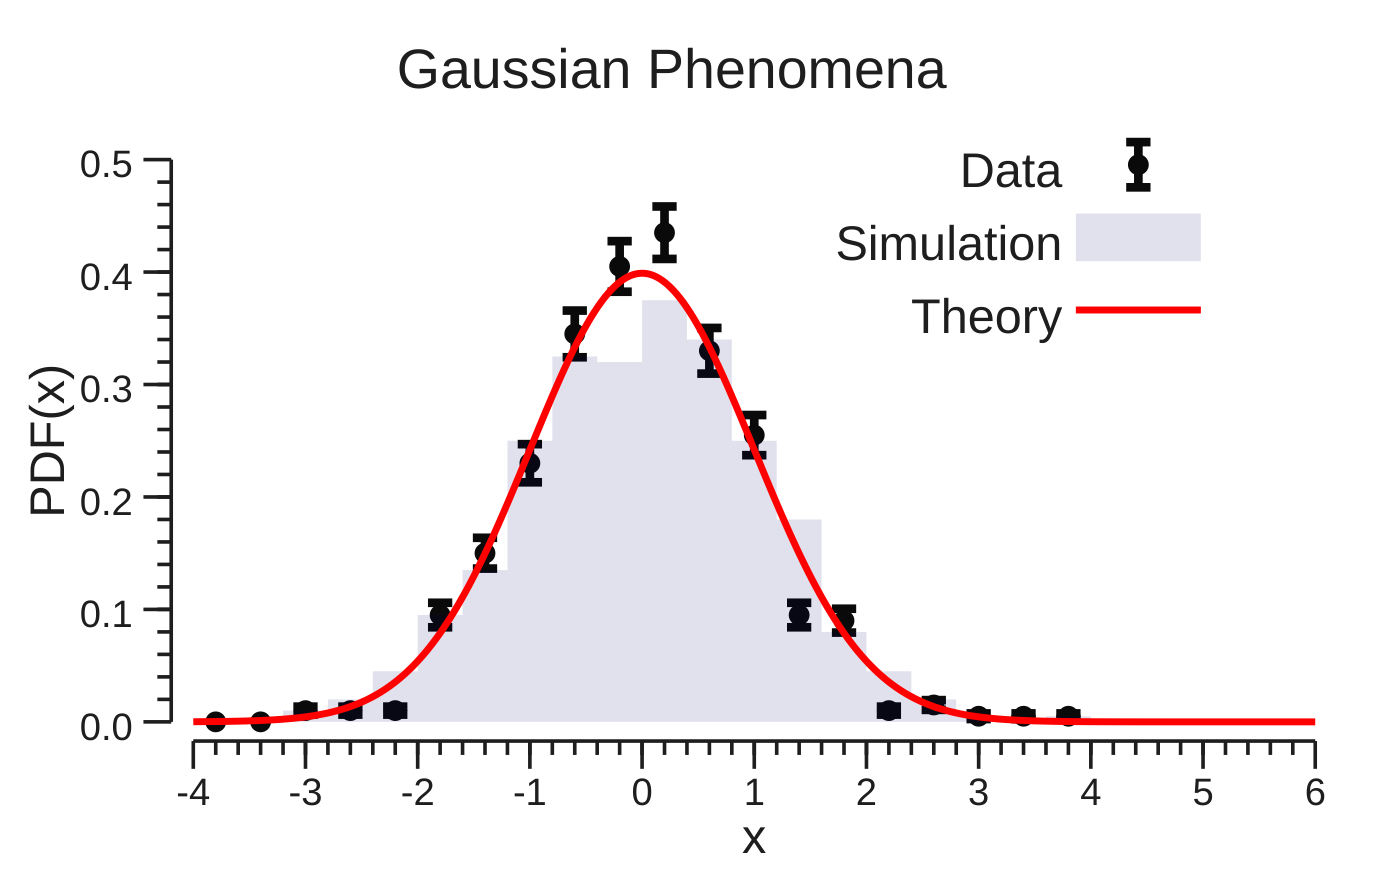
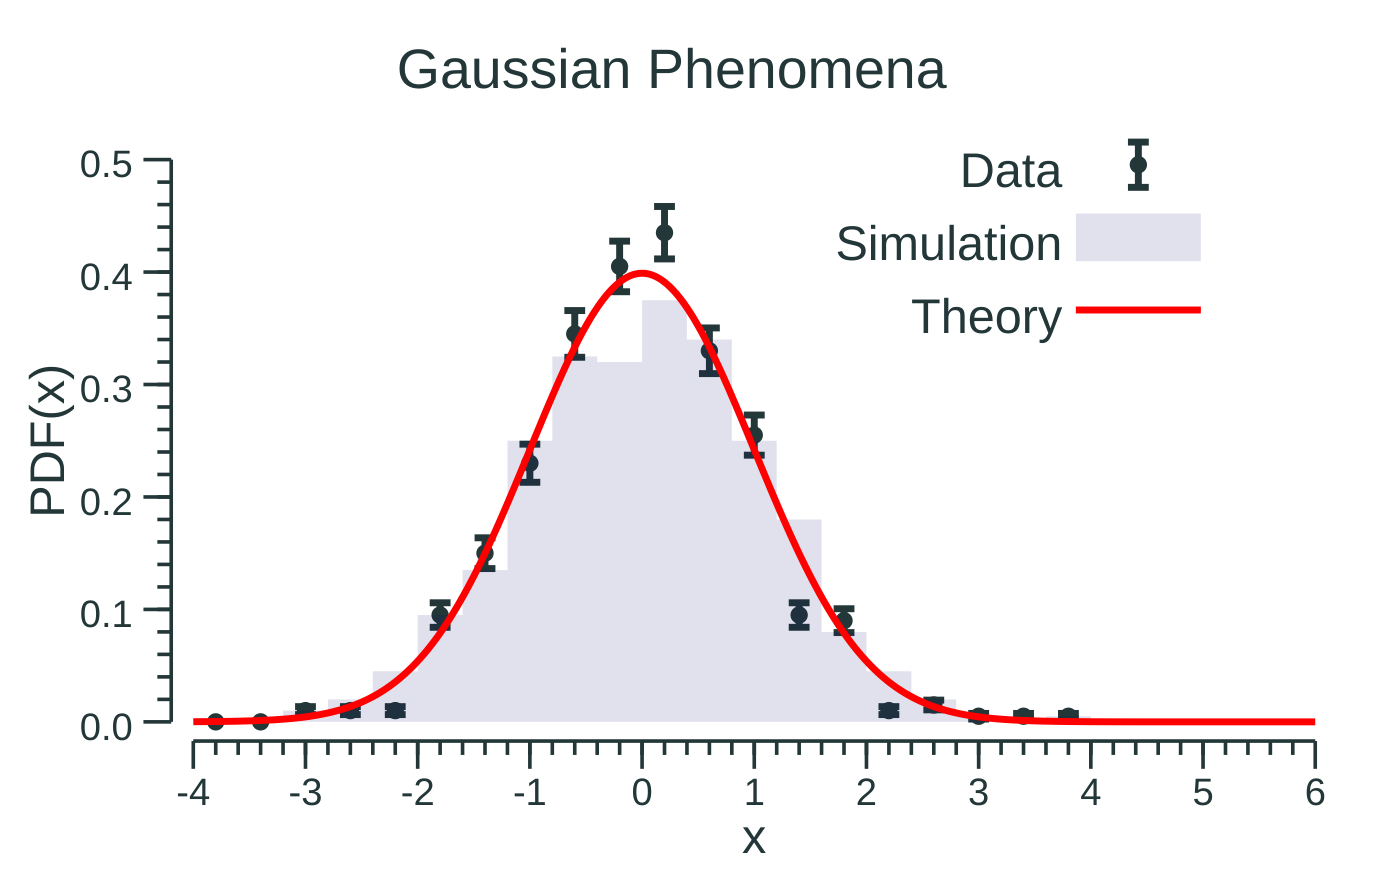
Minor cosmetic changes

diff --git a/plotting/main.go b/plotting/main.go
@@ -24,7 +24,7 @@ import (
 )
 
 
-var defaultBlack color.NRGBA = color.NRGBA{R: 30, G: 30, B: 30, A: 255}
+var defaultBlack color.NRGBA = color.NRGBA{R: 35, G: 55, B: 57, A: 255}
 
 func main() {
 
@@ -146,7 +146,7 @@ func getData() (*hbook.H1D, *hbook.H1D, *hplot.Function) {
 // Apply a nice plot style
 func applyPlotStyle(p *hplot.Plot){
 
-	// Plot borders --> doesn't work with LaTeX/PNG with vgimg yet
+	// Plot borders
 	p.Border.Right = 15
 	p.Border.Left = 5
 	p.Border.Top = 10
@@ -190,10 +190,6 @@ func applyPlotStyle(p *hplot.Plot){
 	// Specify text style of the legend
 	p.Legend.TextStyle.Font.Size = 14
 	p.Legend.TextStyle.Color = defaultBlack
-
-	// Add a grid if we want
-	// p.Add(newCustomGrid())
-
 }
 
 func applyDataHistStyle(hData *hplot.H1D){
@@ -205,15 +201,15 @@ func applyDataHistStyle(hData *hplot.H1D){
 	hData.LineStyle.Width = 0
 
 	// Y error bars
-	hData.YErrs.LineStyle.Color = color.NRGBA{R: 10, G: 10, B: 10, A: 255}
-	hData.YErrs.LineStyle.Width = 2.5
-	hData.YErrs.CapWidth = 7
+	hData.YErrs.LineStyle.Color = defaultBlack
+	hData.YErrs.LineStyle.Width = 2
+	hData.YErrs.CapWidth = 6
 
 	// Dots as marker
 	hData.GlyphStyle = draw.GlyphStyle{
 		Shape:  draw.CircleGlyph{},
-		Color:  color.NRGBA{R: 10, G: 10, B: 10, A: 255},
-		Radius: vg.Points(3)}
+		Color:  defaultBlack,
+		Radius: vg.Points(2.5)}
 }
 
 func saveImg(c *vgimg.Canvas, fname string) {
